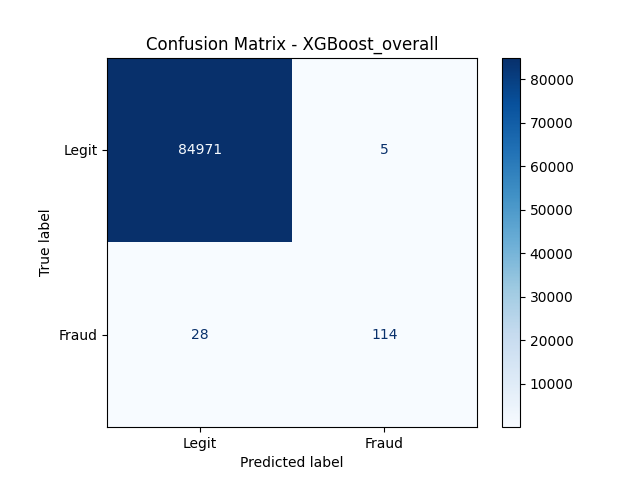
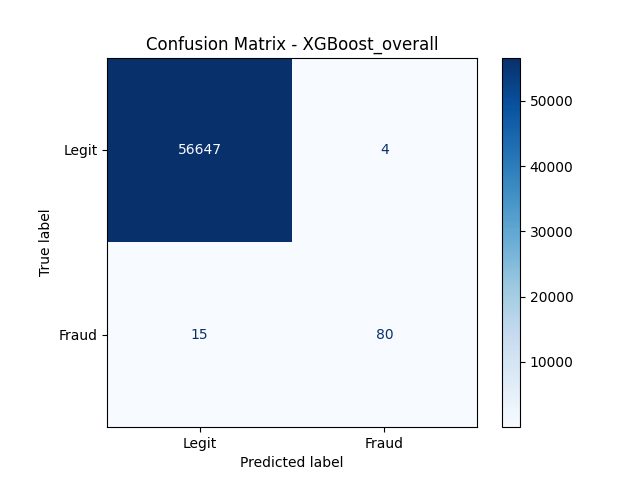
Updated

diff --git a/preprocessing/preprocess.py b/preprocessing/preprocess.py
@@ -67,7 +67,7 @@ def preprocess_data(df, config, random_state=25):
         y = df['Class']
         logger.info(f"Separated features and target. X shape: {X.shape}, y shape: {y.shape}")
 
-        X_train, X_test, y_train, y_test = train_test_split(X, y, test_size=0.3, random_state=random_state, stratify=y)
+        X_train, X_test, y_train, y_test = train_test_split(X, y, test_size=0.2, random_state=random_state, stratify=y)
         logger.info(f"Data split into train and test sets. X_train shape: {X_train.shape}, X_test shape: {X_test.shape}, y_train shape: {y_train.shape}, y_test shape: {y_test.shape}")
         logger.info(f"Class distribution before resampling: {y_train.value_counts().to_dict()}")
 

diff --git a/classifiers/classifier_init.py b/classifiers/classifier_init.py
@@ -11,8 +11,5 @@ all_classifiers = {
     'Random Forest': RandomForestClassifier(),
     'XGBoost': XGBClassifier(), #colsample_bytree=0.3,min_child_weight=9,max_depth=9,subsample=0.9,n_estimators=174,learning_rate=0.12,gamma=0.3
     'MLP': MLPClassifier(), #alpha= 0.0001, hidden_layer_sizes= (150, 125, 100, 75, 50, 25), learning_rate_init= 0.001
-    'KNN': KNeighborsClassifier(),
-    # 'SVM': SVC(probability=True,kernel='linear'),
-    'LogisticRegression': LogisticRegression(max_iter=1000),
     'Neural Network': build_model  # Placeholder for neural network
 }
